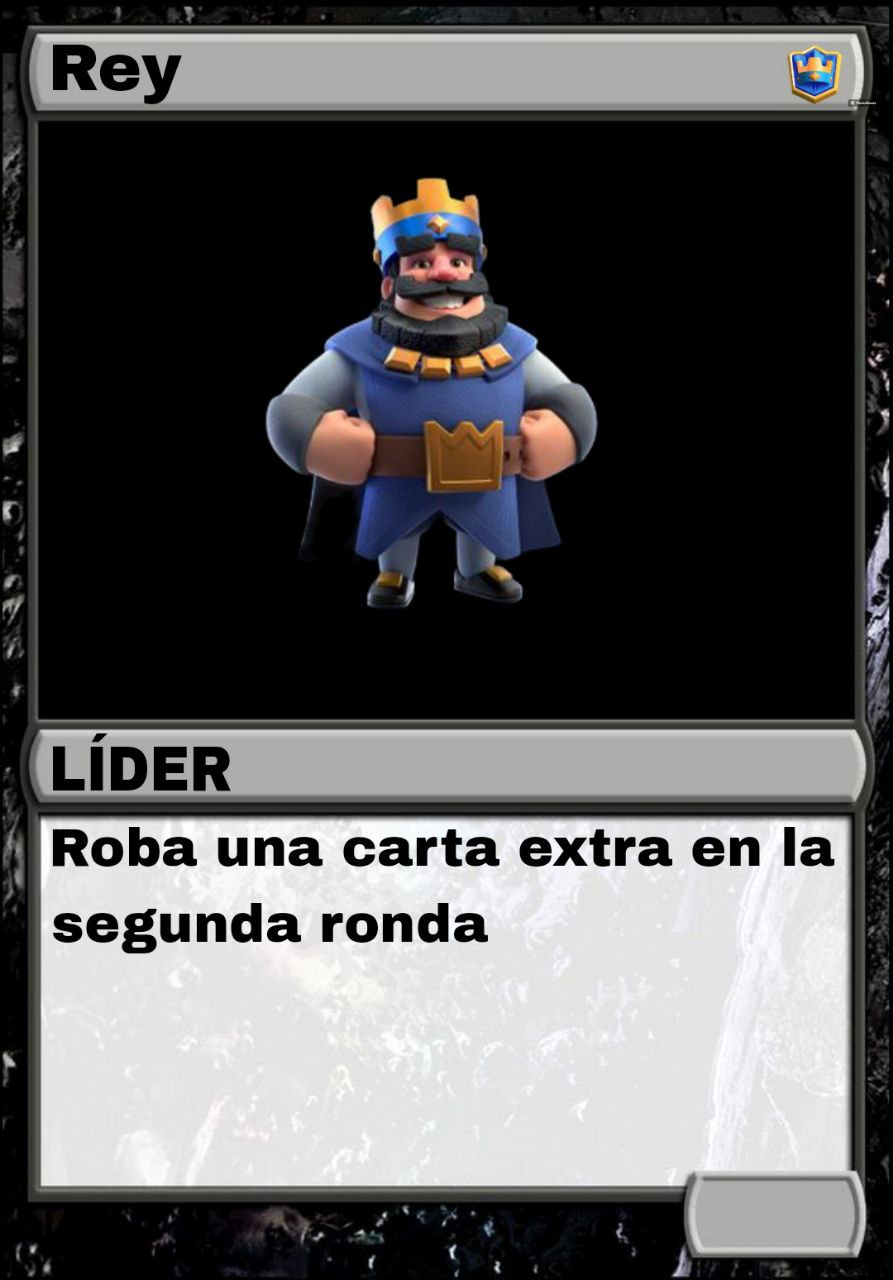
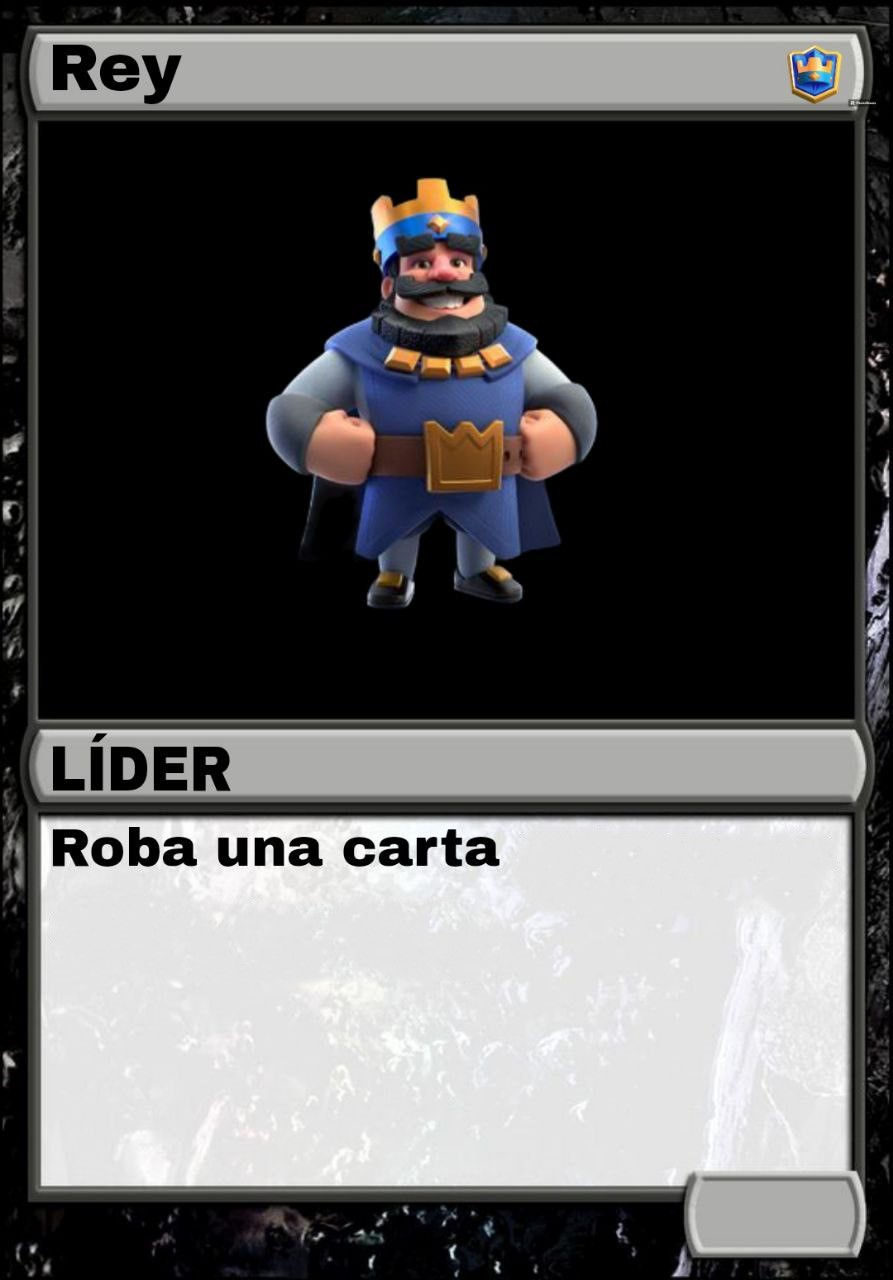
Draw
Creacion del efecto roba una carta

Changed region(s): [[0.0605, 0.6875, 0.3326, 0.75], [0.5745, 0.625, 0.9373, 0.6875], [0.3628, 0.6875, 0.5442, 0.75]]

diff --git a/Assets/Scripts/Card/CardEvents.cs b/Assets/Scripts/Card/CardEvents.cs
@@ -34,9 +34,12 @@ public class CardEvents : MonoBehaviour
     {
         GameObject COCHand = GameObject.Find("COCHand");
         GameObject CRHand = GameObject.Find("CRHand");
-
+        CardDisplay keyword = Playercard.GetComponent<CardDisplay>();
+        Effects activate = Playercard.GetComponent<Effects>();
+                
         if (Playercard.transform.parent == COCHand.transform && TurnSystem.turn ==1 )
         {
+            activate.Effect(keyword.effect,Playercard);
             CardDisplay cardDisplay = Playercard.GetComponent<CardDisplay>();
             if (cardDisplay.attack_type == 'M' )
             {
@@ -63,7 +66,6 @@ public class CardEvents : MonoBehaviour
                 List<string> aumentos = COCaumentos;
                 int random;
                 random = Random.Range(0, aumentos.Count);
-                Debug.Log(random);
                 Field = GameObject.Find(aumentos[random]);
                 Playercard.transform.SetParent(Field.transform, false);
                 COCaumentos.RemoveAt(random);
@@ -76,12 +78,14 @@ public class CardEvents : MonoBehaviour
             {
 
             }
+            
             TurnSystem.turn = 0;
 
         }
 
         if (Playercard.transform.parent == CRHand.transform && TurnSystem.turn == 0)
         {
+            activate.Effect(keyword.effect,Playercard);
             CardDisplay cardDisplay = Playercard.GetComponent<CardDisplay>();
             if (cardDisplay.attack_type == 'M' )
             {
@@ -132,6 +136,7 @@ public class CardEvents : MonoBehaviour
         Cardimage = Cardstats.GetComponent<Image>();
         GameObject hideObject = Cardstats.transform.Find("Hide")?.gameObject;
         Powerstat = hideObject.transform.Find("Power")?.GetComponent<TextMeshProUGUI>();
+        
 
 
         if (Playercard.transform.parent != CRHand.transform && TurnSystem.turn ==1 )

diff --git a/Assets/Scripts/Card/Effects.cs b/Assets/Scripts/Card/Effects.cs
@@ -1,0 +1,65 @@
+using System.Collections;
+using System.Collections.Generic;
+using JetBrains.Annotations;
+using UnityEngine;
+
+public class Effects : MonoBehaviour
+{
+    public GameController gamecontroller;
+    public GameObject COCHand;
+    public GameObject CRHand;
+
+    void Start()
+    {
+        gamecontroller = GameObject.Find("GameController").GetComponent<GameController>();
+        COCHand = GameObject.Find("COCHand");     
+        CRHand = GameObject.Find("CRHand");
+    }
+
+    void Update()
+    {
+        
+    }
+
+    public void Effect(string keyword, GameObject go)
+    {
+        
+        GameObject COCMelee = GameObject.Find("COCMelee");
+        GameObject COCRange = GameObject.Find("COCRange");
+        GameObject COCSiege = GameObject.Find("COCSiege");
+        GameObject CRMelee = GameObject.Find("CRMelee");
+        GameObject CRRange = GameObject.Find("CRRange");
+        GameObject CRSiege = GameObject.Find("CRSiege");
+
+        if (keyword == "mantener")
+        {
+            Debug.Log("Mantener");
+        }
+
+        if (keyword == "roba")
+        { 
+
+            if( go.transform.parent == COCHand.transform)   
+            {
+                Debug.Log("A");
+                gamecontroller.COCDraw();
+            }
+            
+            if (go.transform.parent == CRHand.transform)
+            {
+                Debug.Log("A");
+                gamecontroller.CRDraw();
+            }
+        }
+
+        if (keyword == "aumento")
+        {
+            if (go.transform.parent == COCHand.transform)
+            {
+                
+            }
+        }
+
+
+    }
+}

diff --git a/Assets/Scripts/GameController.cs b/Assets/Scripts/GameController.cs
@@ -25,22 +25,24 @@ public class GameController : MonoBehaviour
         PowerCounter();
     }
 
-    void Draw()
+    public void COCDraw()
     {   
         COCHand = GameObject.Find("COCHand"); 
-        CRHand = GameObject.Find("CRHand");    
         GameObject COCcard = Instantiate(card,new Vector3(0, 0, 0), Quaternion.identity);
         COCcard.transform.SetParent(COCHand.transform,false);
+    }
+    public void CRDraw()
+    {
+        CRHand = GameObject.Find("CRHand");
         GameObject CRcard = Instantiate(card,new Vector3(0, 0, 0), Quaternion.identity);
-        CRcard.transform.SetParent(CRHand.transform,false);
-
-        
+        CRcard.transform.SetParent(CRHand.transform,false); 
     }
     IEnumerator DrawCardsWithDelay()
     {
         for (int i = 0; i < 10; i++)
         {       
-            Draw();
+            COCDraw();
+            CRDraw();
             yield return new WaitForSeconds(0.3f); // Espera 1 segundo antes de continuar con el siguiente ciclo
         }
     }

diff --git a/Assets/Scripts/Card/CardDisplay.cs b/Assets/Scripts/Card/CardDisplay.cs
@@ -68,8 +68,6 @@ public class CardDisplay : MonoBehaviour
         {
             GameObject clone = gameObject;
             displayid = COCDeck.Staticdeck1[0].id;
-            //DrawCards.staticCOCHandcards.Add(COCDeck.Staticdeck1[0]);
-            //DrawCards.staticCOCHandcards.Add(clone);
             COCDeck.Staticdeck1.RemoveAt(0);
             coccardback = false;
             crcardback = false;            
@@ -78,8 +76,6 @@ public class CardDisplay : MonoBehaviour
         {
             GameObject clone = gameObject;
             displayid = CRDeck.Staticdeck2[0].id;
-            //DrawCards.staticCRHandcards.Add(CRDeck.Staticdeck2[0]);
-            //DrawCards.staticCRHandcards.Add(clone);
             CRDeck.Staticdeck2.RemoveAt(0);
             coccardback = false;
             crcardback = false;

diff --git a/Assets/Scripts/Card/CardDatabase.cs b/Assets/Scripts/Card/CardDatabase.cs
@@ -6,6 +6,8 @@ using UnityEngine;
 public class CardDatabase : MonoBehaviour
 {
     public static List<Card> cards = new List<Card>();
+    
+
 
     void Awake()
     {
@@ -42,5 +44,7 @@ public class CardDatabase : MonoBehaviour
     {
         
     }
+
+    
 
 }
